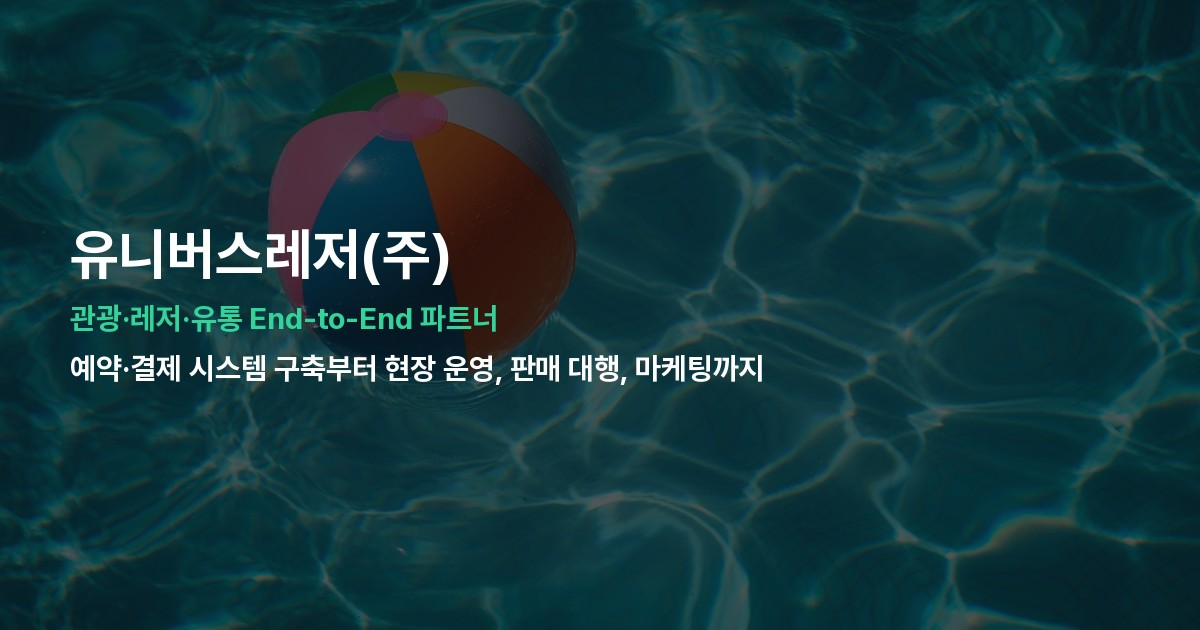
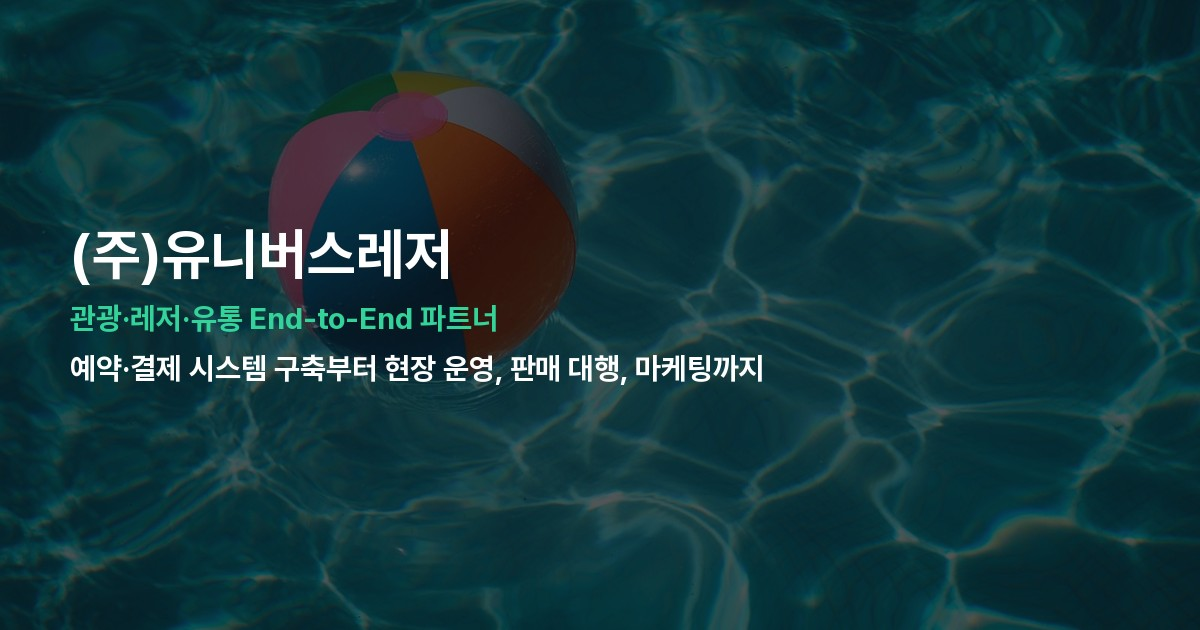
Move (주) to prefix and update CEO name
- 유니버스레저(주) -> (주)유니버스레저 across all site copy and metadata
- 유니버스레저 주식회사 -> 주식회사 유니버스레저 in privacy/terms intro text
- Privacy policy CEO info: 진민수/대표 -> 정성훈/대표이사
- Regenerate og-image.jpg with the new prefix-form brand name

Claude-Session: https://claude.ai/code/session_01M7WZue39E3eGXtbK3pZTzN

Changed region(s): [[0.0617, 0.3619, 0.37, 0.4524]]

diff --git a/app/layout.tsx b/app/layout.tsx
@@ -5,9 +5,9 @@ const siteUrl = 'https://j2.agentt.kr';
 
 export const metadata: Metadata = {
   metadataBase: new URL(siteUrl),
-  title: '유니버스레저(주) | 관광·레저·유통 End-to-End 파트너',
+  title: '(주)유니버스레저 | 관광·레저·유통 End-to-End 파트너',
   description:
-    '유니버스레저(주)는 예약·결제 시스템 구축부터 현장 운영, 판매 대행, 마케팅까지 관광·레저·유통 파트너사를 위한 End-to-End 운영 솔루션을 제공합니다.',
+    '(주)유니버스레저는 예약·결제 시스템 구축부터 현장 운영, 판매 대행, 마케팅까지 관광·레저·유통 파트너사를 위한 End-to-End 운영 솔루션을 제공합니다.',
   keywords: [
     '유니버스레저',
     '관광레저운영대행',
@@ -18,19 +18,19 @@ export const metadata: Metadata = {
     '워터파크운영대행',
     '인천e몰',
   ],
-  authors: [{ name: '유니버스레저(주)' }],
+  authors: [{ name: '(주)유니버스레저' }],
   openGraph: {
-    title: '유니버스레저(주) | 관광·레저·유통 End-to-End 파트너',
+    title: '(주)유니버스레저 | 관광·레저·유통 End-to-End 파트너',
     description:
       '예약·결제 시스템 구축부터 현장 운영, 판매 대행, 마케팅까지. 관광·레저·유통 파트너를 위한 End-to-End 운영 솔루션.',
     url: siteUrl,
-    siteName: '유니버스레저(주)',
+    siteName: '(주)유니버스레저',
     images: [
       {
         url: '/images/og-image.jpg',
         width: 1200,
         height: 630,
-        alt: '유니버스레저(주)',
+        alt: '(주)유니버스레저',
       },
     ],
     locale: 'ko_KR',
@@ -38,7 +38,7 @@ export const metadata: Metadata = {
   },
   twitter: {
     card: 'summary_large_image',
-    title: '유니버스레저(주) | 관광·레저·유통 End-to-End 파트너',
+    title: '(주)유니버스레저 | 관광·레저·유통 End-to-End 파트너',
     description:
       '예약·결제 시스템 구축부터 현장 운영, 판매 대행, 마케팅까지. 관광·레저·유통 파트너를 위한 End-to-End 운영 솔루션.',
     images: ['/images/og-image.jpg'],

diff --git a/app/privacy/page.tsx b/app/privacy/page.tsx
@@ -3,8 +3,8 @@ import Header from '@/components/Header';
 import Footer from '@/components/Footer';
 
 export const metadata: Metadata = {
-  title: '개인정보처리방침 | 유니버스레저(주)',
-  description: '유니버스레저(주) 개인정보처리방침',
+  title: '개인정보처리방침 | (주)유니버스레저',
+  description: '(주)유니버스레저 개인정보처리방침',
 };
 
 export default function PrivacyPolicyPage() {
@@ -16,7 +16,7 @@ export default function PrivacyPolicyPage() {
           개인정보처리방침
         </h1>
         <p className="mb-12 leading-relaxed text-navy-600">
-          유니버스레저 주식회사(이하 &quot;회사&quot;)는 「개인정보 보호법」
+          주식회사 유니버스레저(이하 &quot;회사&quot;)는 「개인정보 보호법」
           제30조에 따라 정보주체의 개인정보를 보호하고 이와 관련한 고충을
           신속하고 원활하게 처리하기 위하여 다음과 같이 개인정보처리방침을
           수립·공개합니다.
@@ -159,8 +159,8 @@ export default function PrivacyPolicyPage() {
               <p className="mb-1 font-semibold text-navy-900">
                 개인정보 보호책임자
               </p>
-              <p>성명 : 진민수</p>
-              <p>직책 : 대표</p>
+              <p>성명 : 정성훈</p>
+              <p>직책 : 대표이사</p>
               <p>이메일 : bereajin@gmail.com</p>
             </div>
             <p className="leading-relaxed text-navy-700">

diff --git a/app/terms/page.tsx b/app/terms/page.tsx
@@ -3,8 +3,8 @@ import Header from '@/components/Header';
 import Footer from '@/components/Footer';
 
 export const metadata: Metadata = {
-  title: '이용약관 | 유니버스레저(주)',
-  description: '유니버스레저(주) 이용약관',
+  title: '이용약관 | (주)유니버스레저',
+  description: '(주)유니버스레저 이용약관',
 };
 
 export default function TermsOfServicePage() {
@@ -22,7 +22,7 @@ export default function TermsOfServicePage() {
               제1조 (목적)
             </h2>
             <p className="leading-relaxed text-navy-700">
-              본 약관은 유니버스레저 주식회사(이하 &quot;회사&quot;)가
+              본 약관은 주식회사 유니버스레저(이하 &quot;회사&quot;)가
               운영하는 홈페이지(이하 &quot;사이트&quot;)의 이용과 관련하여
               회사와 이용자의 권리, 의무 및 책임사항 등 필요한 사항을
               규정함을 목적으로 합니다.

diff --git a/components/Hero.tsx b/components/Hero.tsx
@@ -37,7 +37,7 @@ export default function Hero() {
 
       <div className="relative mx-auto flex w-full max-w-5xl flex-col items-start gap-6">
         <span className="rounded-full border border-white/20 bg-white/5 px-4 py-1.5 text-sm font-medium tracking-wide text-white/80">
-          유니버스레저(주)
+          (주)유니버스레저
         </span>
 
         <h1 className="max-w-3xl break-keep text-2xl font-bold leading-tight sm:text-3xl md:text-4xl lg:text-5xl">

diff --git a/components/Footer.tsx b/components/Footer.tsx
@@ -7,7 +7,7 @@ export default function Footer() {
         <div className="flex flex-col gap-4 sm:flex-row sm:items-center sm:justify-between">
           <div className="flex flex-col gap-1">
             <span className="text-base font-bold text-white">
-              유니버스레저(주)
+              (주)유니버스레저
             </span>
             <span>
               인천광역시 연수구 인천타워대로 301, 더샵송도센텀하이브 B동 822호

diff --git a/components/About.tsx b/components/About.tsx
@@ -20,7 +20,7 @@ export default function About() {
             회사소개
           </h2>
           <p className="text-base leading-loose text-navy-700 sm:text-lg">
-            유니버스레저(주)는 대한민국 관광·레저·유통 파트너를 위한
+            (주)유니버스레저는 대한민국 관광·레저·유통 파트너를 위한
             End-to-End 운영 솔루션을 제공합니다.
             <br />
             <br />

diff --git a/components/Header.tsx b/components/Header.tsx
@@ -21,7 +21,7 @@ export default function Header() {
           {/* eslint-disable-next-line @next/next/no-img-element */}
           <img
             src="/images/logo/logo.png"
-            alt="유니버스레저(주)"
+            alt="(주)유니버스레저"
             className="h-[72px] w-auto sm:h-[88px]"
           />
         </a>

diff --git a/CLAUDE.md b/CLAUDE.md
@@ -1,4 +1,4 @@
-# 유니버스레저(주) 원페이지 홈페이지
+# (주)유니버스레저 원페이지 홈페이지
 
 ## 프로젝트 목적
 관광·레저·유통 B2B 파트너사 대상 원페이지 소개 홈페이지.
